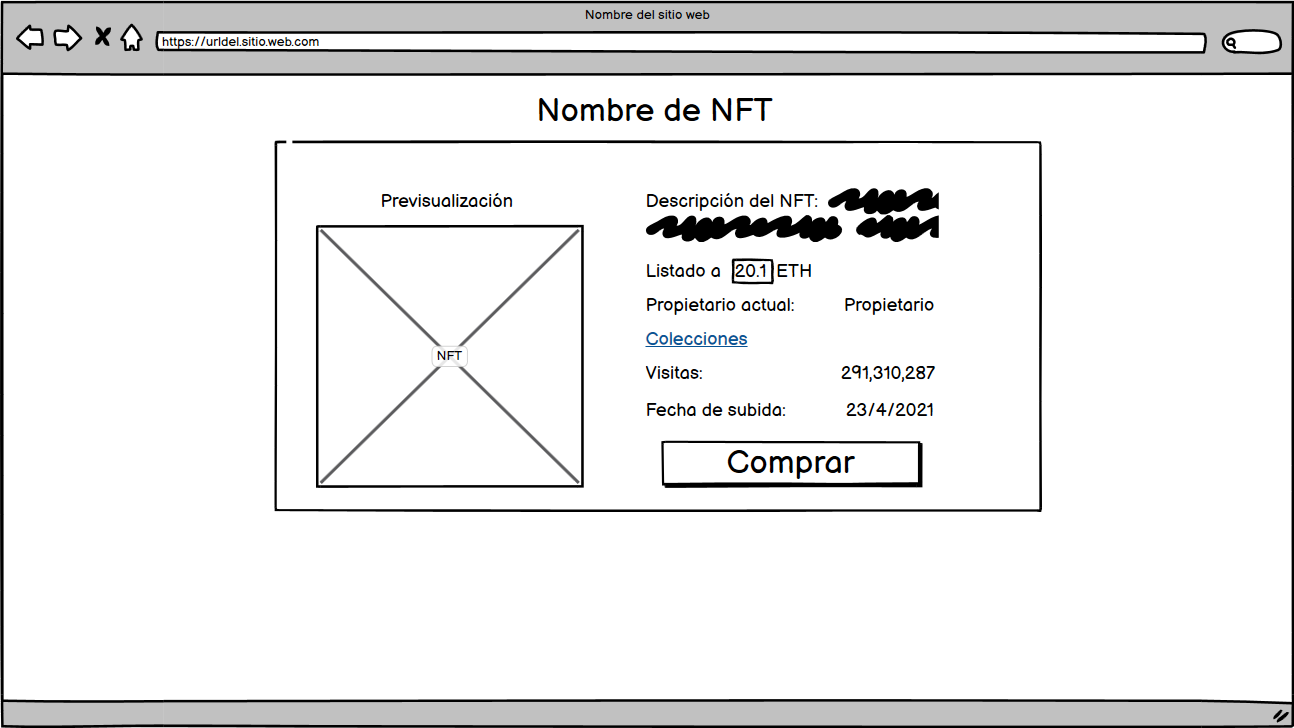
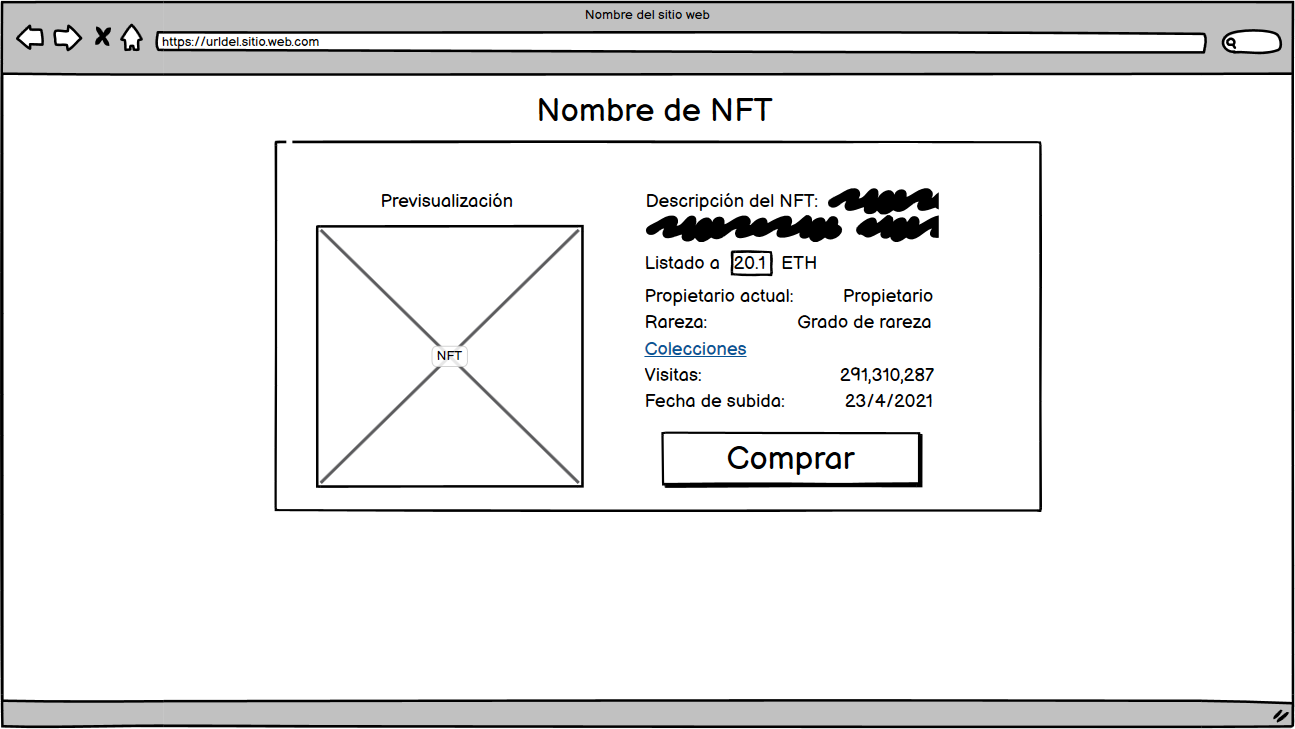
Add: Versionado: Commits y Ramas. Rareza en RF9 y boceto UC5

diff --git a/README.md b/README.md
@@ -1,3 +1,5 @@
+# Obligatorio 1: NFTs
+
 [![Open in Visual Studio Code](https://classroom.github.com/assets/open-in-vscode-f059dc9a6f8d3a56e377f745f24479a46679e63a5d9fe6f495e02850cd0d8118.svg)](https://classroom.github.com/online_ide?assignment_repo_id=7412974&assignment_repo_type=AssignmentRepo)
 
 ## Profesores
@@ -15,15 +17,17 @@
 [Link al repositorio](https://github.com/ORTFIS2022/obligatorio-Barbieri-Franco--Heredia-Felipe--Visconti-Nicolas.git)
 
 
-# Obligatorio 1: NFTs
-
 ## Índice
 1. [Introducción](#introducción)
 2. [Glosasrio](#glosario)
 3. [Repositorio Git](#repositorio-git)
     1. [Creación del repositorio](#creación-del-repositorio)
     2. [Comandos utilizados](#comandos-utilizados)
-4. [Elicitación](#elicitación)
+4. [Versionado]
+    1. [Ramas](#ramas)
+    2. [Commits](#commits)
+    3. [Evolución del proyecto](#evolución-del-proyecto)
+5. [Elicitación](#elicitación)
     1. [Investigación: técnicas utilizadas](#investigación-técnicas-utilizadas)
         1. [Ingeniería Reversa](#ingeniería-reversa)
         2. [Entrevista](#entrevista)
@@ -31,18 +35,18 @@
     2. [Referencias bibliográficas](#referencias-bibliográficas)
     3. [User Personas](#user-personas)
     4. [Modelo conceptual](#modelo-conceptual)
-5. [Especificación](#especificación)
+6. [Especificación](#especificación)
     1. [Requerimientos funcionales](#requerimientos-funcionales)
     2. [Requerimientos no funcionales](#requerimientos-no-funcionales)
     3. [User Stories](#user-stories)
     4. [Use Cases](#use-cases)
     5. [Boceto de UI](#boceto-de-ui)
-6. [Validación](#validación)
-7. [Verificación](#verificación)
-8. [Reflexión](#reflexión)
+7. [Validación](#validación)
+8. [Verificación](#verificación)
+9. [Reflexión](#reflexión)
     1. [Detalles del trabajo individual](#detalles-del-trabajo-individual)
     2. [Técnicas aplicadas y aprendidas](#técnicas-aplicadas-y-aprendidas)
-9. [Anexo](#anexo)
+10. [Anexo](#anexo)
 
 ## Introducción
 
@@ -72,9 +76,10 @@ Nosotros utilizamos principalmente la rama main (princpal) y luego cada uno una 
 
 ### Creación del repositorio
 
-{cómo fue creado, cómo se agregaron los integrantes, cómo se configuraron permisos, cómo funcionan las ramas, etc.}
 El repositorio fue creado utilizando el comando git init y dandole la ruta del del espacio de trabajo colaborativo classroom, 
 y luego desde la pagina de github le dimos los permisos de administrador a todos los participantes.
+    - Creación de ramas
+    - Criterio de nombre de ramas
 
 
 ### Comandos utilizados
@@ -92,6 +97,44 @@ Estos son algunos de los comandos más importantes que utlizamos durante del pro
 - **git merge *nombreRama*:** Combina la rama de trabajo actual con la rama *nombreRama*.
 - **git branch --set-upstream-to=origin/*origenRama* *nombreRama*:** Establece el origen de la rama *nombreRama* como origin/*origenRama* donde origin es el origen de la rama main.
 
+
+## Versionado
+
+### Ramas
+
+Dispusimos de la rama **main** donde se guardan las versiones estables, luego, cada integrante creo su propia rama donde trabajaban nuevas integraciones al documento en paralelo para luego combinarse al main:
+- **develop/Felipe**: rama donde trabajó Felipe
+- **developfranco**: rama donde trabajó Franco
+- **developNico**: rama donde trabajó Nicolás
+
+### Commits
+
+Utilizamos un criterio donde va una descripción de los cambios realizados y al comienzo del commit una palabra que refleja el tipo de  los cambios realizados, a continuación se describen brevemente y se muestran ejemplos:
+
+- **Add**: cuando se agrega un archivo o líneas a un archivo.
+    - Ejemplos
+    ![Ejemplo 1](/Commits/Add-ejemplo1.png "Ejemplo 1 Add")
+    ![Ejemplo 2](/Commits/Add-ejemplo2.png "Ejemplo 2 Add")
+    ![Ejemplo 3](/Commits/Add-ejemplo3.png "Ejemplo 3 Add") 
+- **Fix**: cuando se corrige parte de un archivo ya existente, sin agregar cambios nuevos.
+    - Ejemplos
+    ![Ejemplo 1](/Commits/Fix-ejemplo1.png "Ejemplo 1 Fix")
+    ![Ejemplo 2](/Commits/Fix-ejemplo2.png "Ejemplo 2 Fix")
+    ![Ejemplo 3](/Commits/Fix-ejemplo3.png "Ejemplo 3 Fix")
+- **Delete**: cuando se borra un archivo o líneas de un archivo.
+    - Ejemplos
+    ![Ejemplo 1](/Commits/Delete-ejemplo1.png "Ejemplo 1 Delete")
+
+- **Merge**: cuando se combinan ramas.
+    - Ejemplos
+    ![Ejemplo 1](/Commits/Merge-ejemplo1.png "Ejemplo 1 Merge")
+    ![Ejemplo 2](/Commits/Merge-ejemplo2.png "Ejemplo 2 Merge")
+
+
+
+### Evolución del proyecto
+
+{Al principio err trabajamos sobre main, luego empezamos a utilizar ramas separadas y fue más cómodo}
 
 ## Elicitación
 
@@ -261,6 +304,7 @@ El sistema deberá almacenar la información de cada NFT. Esto es:
 6. Contenido multimedia [(ver RNF8)](#rnf8-formato-de-nft)
 7. Número de vistas
 8. Fecha de subida
+9. Rareza [(ver RNF9)](#rnf9-rareza-de-un-nft)
 
 - Actor: Sistema
 - Prioridad: 1
@@ -289,11 +333,12 @@ El sistema debe permitir la venta de NFTs en la plataforma donde el propietario 
 #### RF13: Creación de una NFT.
 
 El sistema debe permitir crear una NFT, esto es, el usuario indicará los puntos 2, 4 y 5 del [Requerimiento funcional RF9](#rf9-información-de-nfts) . El sistema debe almacenar esta información e inicializar los demás puntos en su valor neutral una vez el NFT sea publicado:
-- Para su identificación, ver criterio según [Requerimiento no funcional RNF3](#rnf3-identificaciones-únicas-de-nfts)
+- Para su identificación, ver criterio según [RNF3](#rnf3-identificaciones-únicas-de-nfts)
 - No se asignará precio.
 - No se asignará a ninguna colección.
 - Número de vistas en 0.
 - Fecha de subida en fecha actual.
+- Rareza según criterio descripto en [RNF9](#rnf9-rareza-de-un-nft)
 
 - Actor: Usuario/Sistema
 - Prioridad: 1
@@ -359,6 +404,16 @@ El precio definido para un nft puede exceder los 10.000 ETH.
 #### RNF8: Formato de NFT
 
 Los formatos admitido para el contenido multimedia de una NFT son jpg, png o gif.
+
+#### RNF9: Rareza de un NFT
+
+Los NFT deberán tener un atributo de rareza según el número de propietarios:
+
+- 1-2 propietarios: Rareza Legendaria.
+- 2-10 propietarios: Rareza Única.
+- 11-25 propietarios: Rareza de élite.
+- 26-100 propietarios: Rareza normal.
+- 101 o más propietarios: Rareza común.
 
 ### User Stories
 
@@ -671,48 +726,71 @@ Durante el obligatorio, aprendimos distintas técnicas que aplicamos a nuestro d
 
 ## Anexo
 
-### Cronograma para reunión 3 (19/4/2022)
+### Cronogramas
 
-- 5 ideas c/u en lluvia de ideas 
+Para algunas de las reuniones utilizamos algunos cronogramas:
 
-- Requerimientos funcionales:
+    ### Cronograma para reunión 3 (19/4/2022)
 
-    - Felipe: Requerimientos de wallet
-    - Franco: Requerimientos de compra y venta de NFTs
-    - Nicolás: Requrerimientos de subasta y colecciones de NFTs
+    - 5 ideas c/u en lluvia de ideas 
 
-- Requirimientos no funcionales:
+    - Requerimientos funcionales:
 
-    - Felipe: navegador/sistema operativo en el que va a funcionar la aplicación 
-    - Franco: cómo se muestra la info de la NFT
-    - Nicolás: paleta de colores primaria y secundaria, fuente y tamaño
+        - Felipe: Requerimientos de wallet
+        - Franco: Requerimientos de compra y venta de NFTs
+        - Nicolás: Requrerimientos de subasta y colecciones de NFTs
 
-### Cronograma para reunión 4 (20/4/2022)
+    - Requirimientos no funcionales:
 
-- Franco: Comandos utilizados
+        - Felipe: navegador/sistema operativo en el que va a funcionar la aplicación 
+        - Franco: cómo se muestra la info de la NFT
+        - Nicolás: paleta de colores primaria y secundaria, fuente y tamaño
 
-- Felipe: User Stories (2)
+    ### Cronograma para reunión 4 (20/4/2022)
 
-- Nicolás: Requerimientos Funcionales (2) y Requerimientos no funcionales (2)
+    - Franco: Comandos utilizados
 
-### Cronograma para siguiente reunión (21/4/2022)
+    - Felipe: User Stories (2)
 
-- Felipe: User Stories: Publicar NFT y subastar NFT
+    - Nicolás: Requerimientos Funcionales (2) y Requerimientos no funcionales (2)
 
-- Nicolás: armar Índice, User Story: Comprar y vender NFT
+    ### Cronograma para reunión 5 (21/4/2022)
 
-### Cronograma para siguiente reunión (22/4/2022)
+    - Felipe: User Stories: Publicar NFT y subastar NFT
 
-- Franco: formalizar requerimientos (R3)
-    - Comandos utilizados (R4)
+    - Nicolás: armar Índice, User Story: Comprar y vender NFT
 
+    ### Cronograma para reunión 6 (22/4/2022)
 
-
-- Felipe: Use cases RF 7, 8, 9, 10
-    - Ideas de lluvia de Ideas  (R3)
-
+    - Franco: formalizar requerimientos (R3)
+        - Comandos utilizados (R4)
 
 
-- Nicolás: Use cases RF 1, 2, 3, 4, 5, 6
-    - Avanzar introducción
 
+    - Felipe: Use cases RF 7, 8, 9, 10
+        - Ideas de lluvia de Ideas  (R3)
+
+
+
+    - Nicolás: Use cases RF 1, 2, 3, 4, 5, 6
+        - Avanzar introducción
+
+### Placeholders
+
+Antes de tener la versión definitiva de los bocetos con Balsamiq, se utilizaron placeholders hechos en paint, que se encuentran en la carpeta  ![Placeholders](/Placeholders/)
+
+- Imágenes
+    - Placeholder 1: Creación de colecciones
+    ![Placeholder 1](/Placeholders/Placeholder-Colecciones-Crear.png)
+
+    * Placeholder 2: Agregar/Eliminar a Colección
+    ![Placeholder 1](/Placeholders/Placeholder-Colecciones-Agregar-Eliminar.png "Placeholder Colecciones")
+
+    - Placeholder 3: Eliminar Colección
+    ![Placeholder 1](/Placeholders/Placeholder-Colecciones-Eliminar-Coleccion.png "Placeholder Colecciones")
+
+    - Placeholder 4: Subasta - Comprador
+    ![Placeholder 1](/Placeholders/Placeholder-Subasta-Comprador.png "Placeholder Subasta")
+
+    - Placeholder 5: Subasta - Vendedor
+    ![Placeholder 1](/Placeholders/Placeholder-Subasta-Vendedor.png "Placeholder Subasta")
